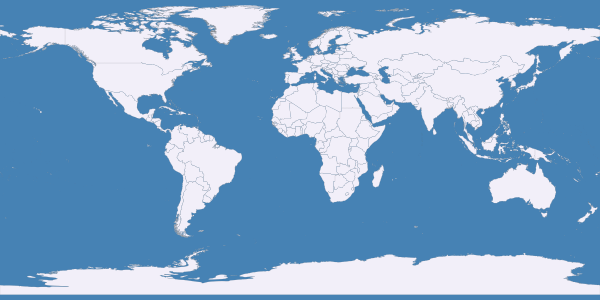
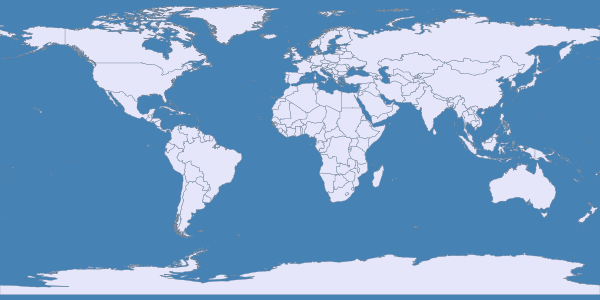
use named colors
git-svn-id: http://mapnik-utils.googlecode.com/svn@717 dbea3d40-3153-0410-b551-57805770c6e6

diff --git a/example_code/hello_world/pure_python/world_map_and_styles.py b/example_code/hello_world/pure_python/world_map_and_styles.py
@@ -7,9 +7,9 @@ m = Map(600,300,'+proj=latlong +datum=WGS84')
 m.background = Color('steelblue')
 
 # Styles
-poly = PolygonSymbolizer(Color('#f2eff9'))
-line = LineSymbolizer(Color('rgb(50%,50%,50%)'),0.1)
-s, r = Style(), Rule()
+poly = PolygonSymbolizer(Color('lavender'))
+line = LineSymbolizer(Color('slategray'),.3)
+s,r = Style(),Rule()
 r.symbols.extend([poly,line])
 s.rules.append(r)
 m.append_style('My Style',s)
